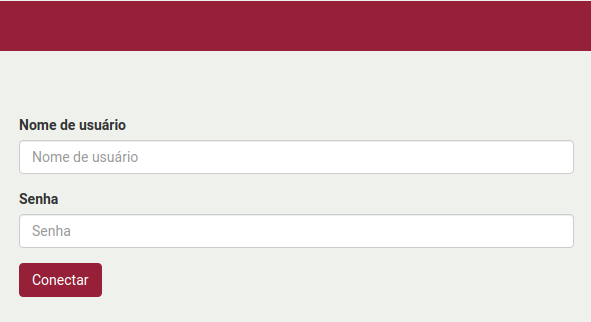
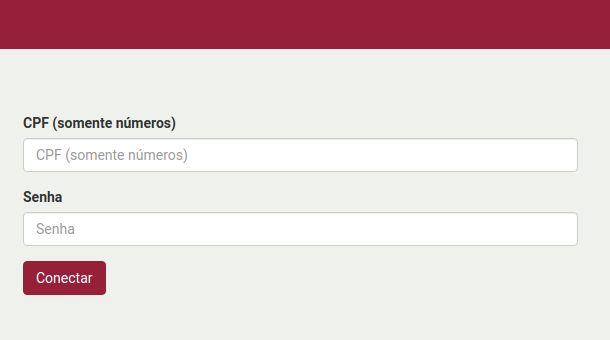
Ajuste manual

diff --git a/ajuda-gestor-src/site/eleitor/index.html b/ajuda-gestor-src/site/eleitor/index.html
@@ -324,7 +324,7 @@
     <img alt="Autenticação MinhaUfop" src="../img/eleitor-09.png" title="Autenticação MinhaUfop" /></p>
 </li>
 <li>
-<p>Para autenticar-se no sistema, utilize o seu CPF (sem pontos e hífen) e a senha do Portal MinhaUfop.</p>
+<p>Para autenticar-se no sistema, utilize o seu CPF (somente números) e a senha do Portal MinhaUfop.</p>
 <p><img alt="Autenticação" src="../img/eleitor-01.png" title="Autenticação" /></p>
 </li>
 <li>

diff --git a/ajuda-src/site/index.html b/ajuda-src/site/index.html
@@ -228,7 +228,7 @@
     <img alt="Autenticação MinhaUfop" src="img/eleitor-09.png" title="Autenticação MinhaUfop" /></p>
 </li>
 <li>
-<p>Para autenticar-se no sistema, utilize o seu CPF (sem pontos e hífen) e a senha do Portal MinhaUfop.</p>
+<p>Para autenticar-se no sistema, utilize o seu CPF (somente números) e a senha do Portal MinhaUfop.</p>
 <p><img alt="Autenticação" src="img/eleitor-01.png" title="Autenticação" /></p>
 </li>
 <li>
